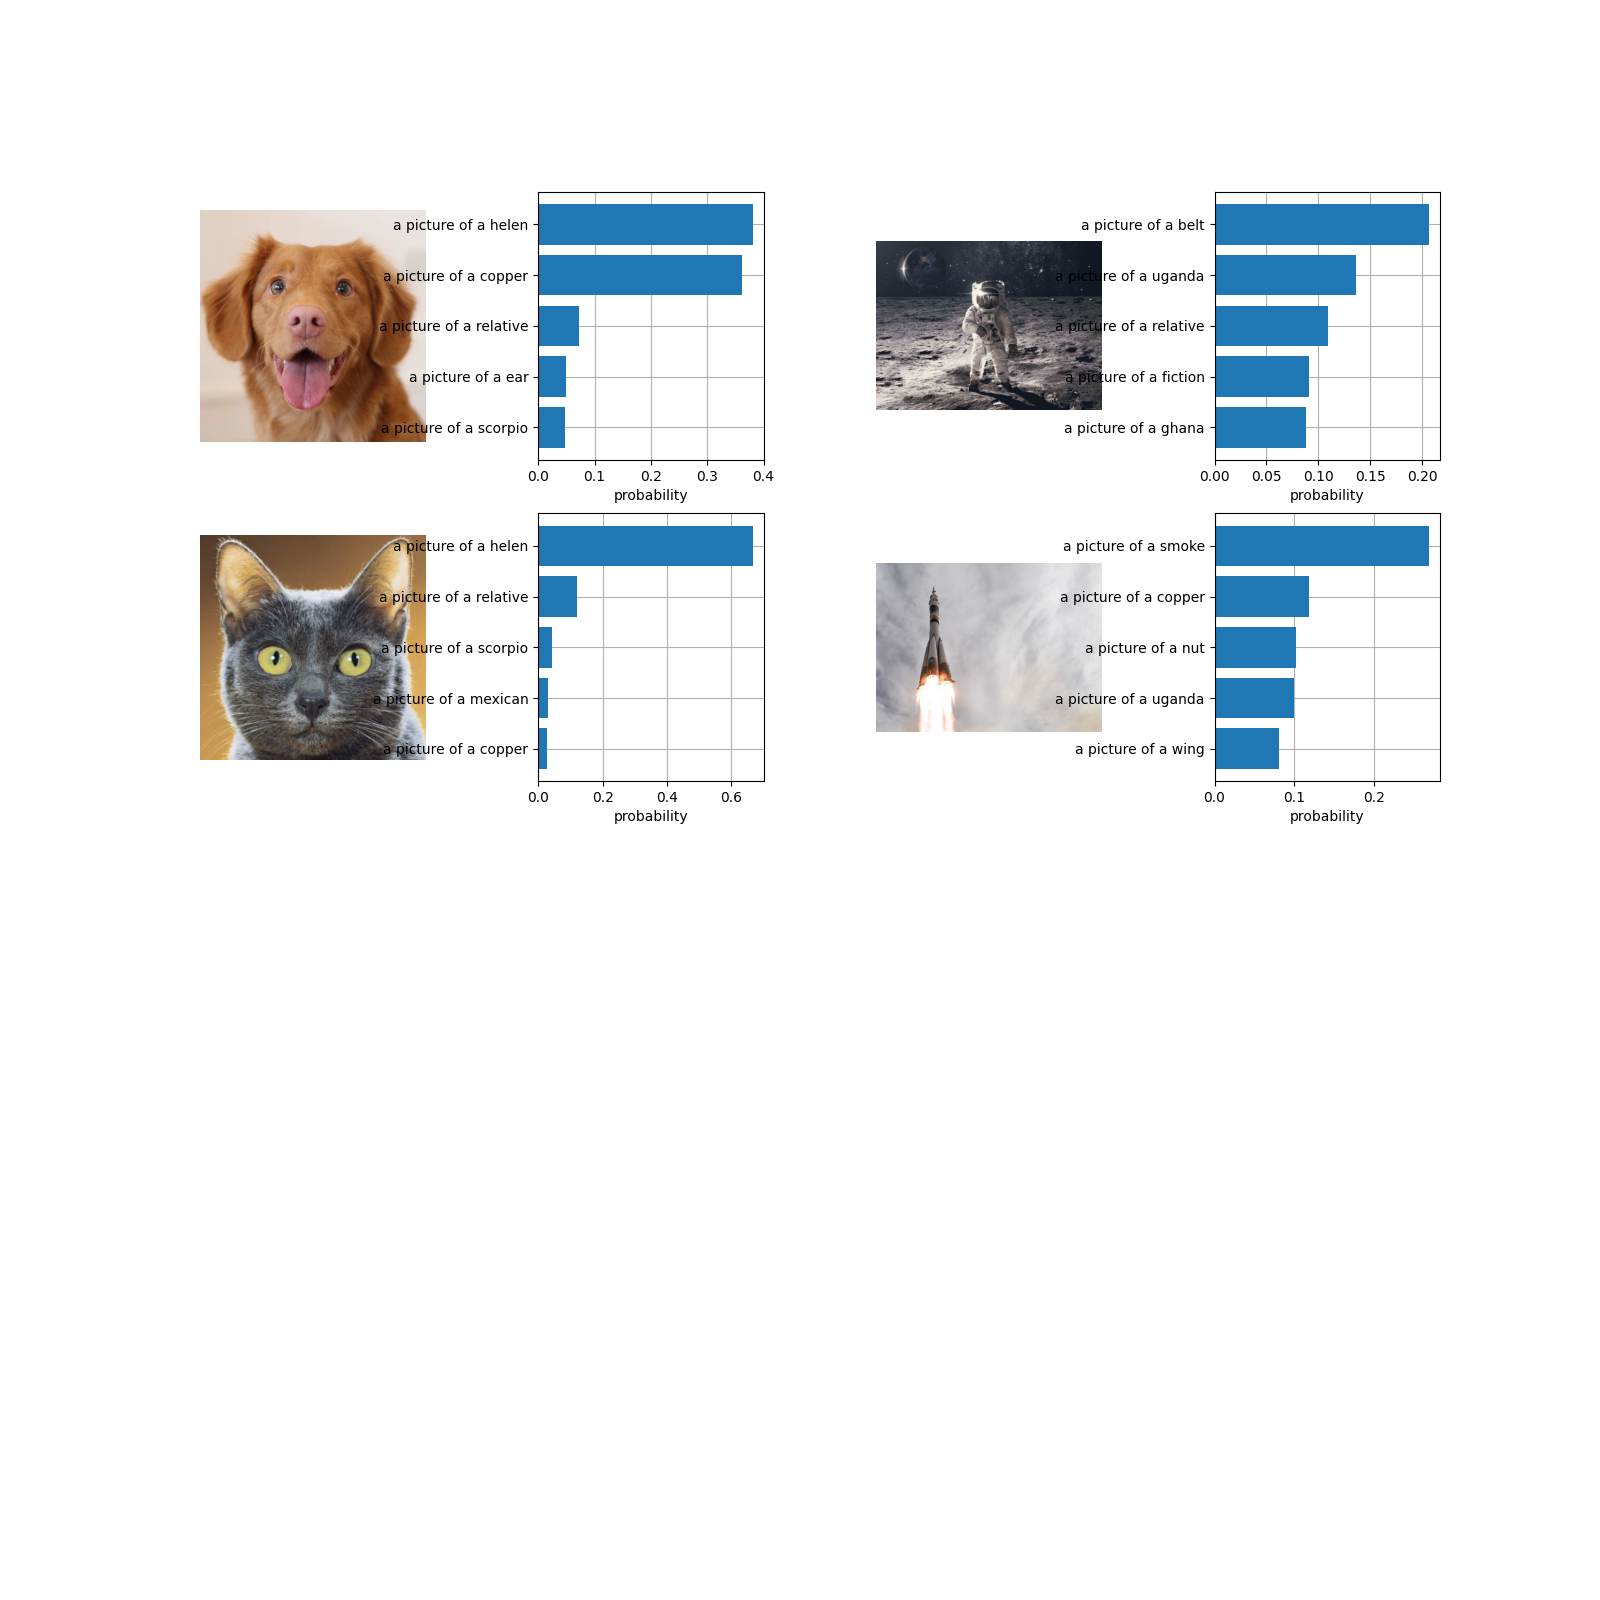
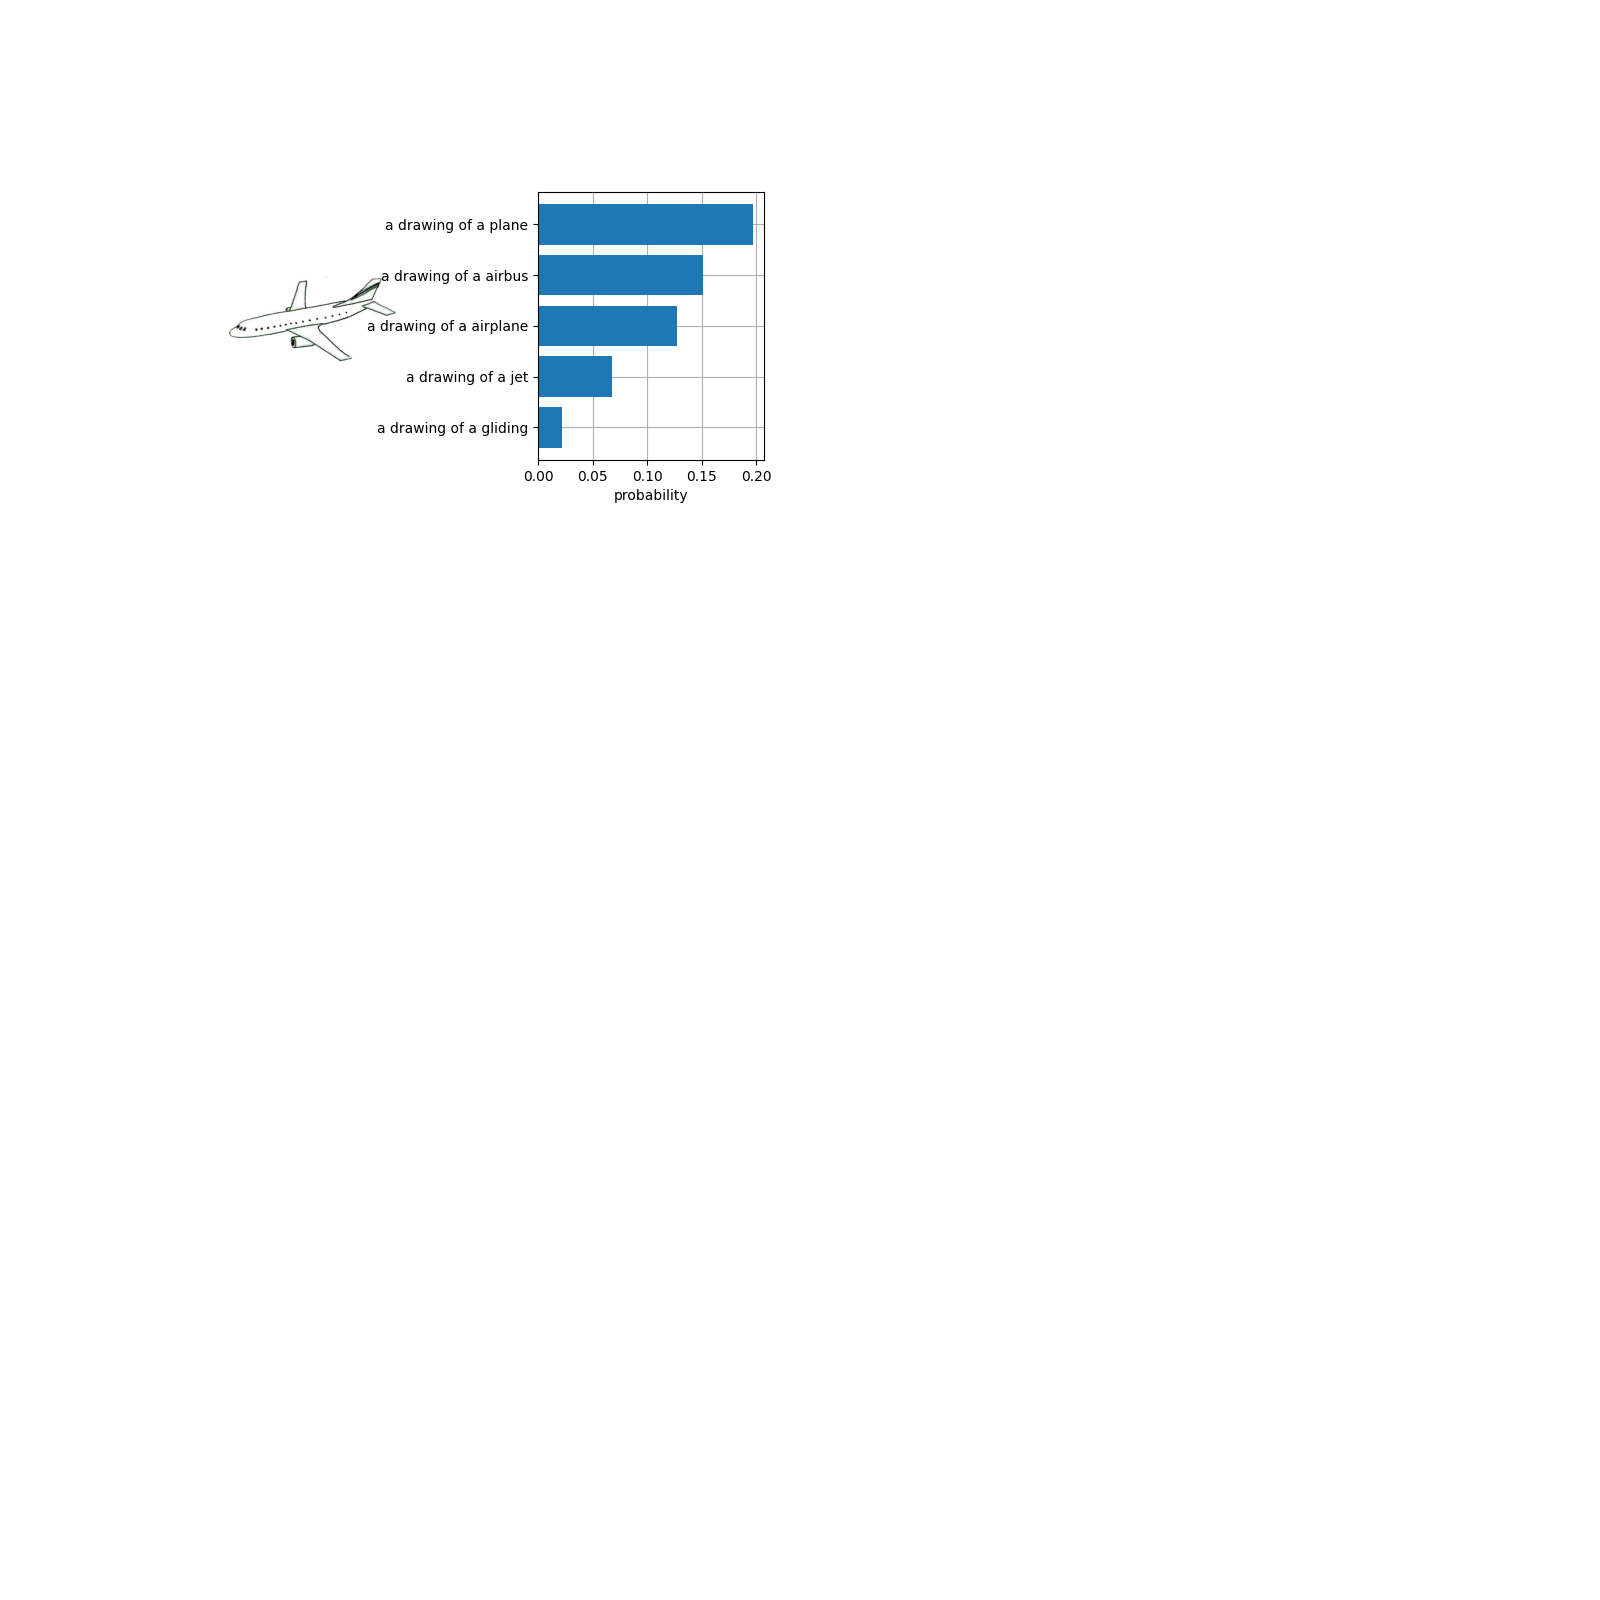
all working

diff --git a/server/main.py b/server/main.py
@@ -49,13 +49,14 @@ def classify_zero_shot_dataset():
     return {"Hello": "World"}
 
 @app.get("/classify_zero_shot_image")
-def classify_zero_shot_image():
-    clip_factory.prepare_single_image("local_images/single_images/cat_sketch.jpg") # or skimage.data_dir
+def read_item(target: str = "cat"):
+    image_path = f"local_images/single_images/{target}.jpg"
+    clip_factory.prepare_single_image(image_path) # or skimage.data_dir
     clip_factory.encode_image_tensors(np.stack(clip_factory.images_rgb)) 
     clip_factory.encode_text_classes(["This is " + desc for desc in clip_factory.classes])
     clip_factory.calc_cosine_similarities(True)
     plot_zero_shot_images(clip_factory)
-    return {"Hello": "World"}
+    return {"Hello": target}
 
 @app.get("/text_classify/directory/{prompt}")
 def classify_text_from_image(prompt: str):
@@ -72,7 +73,7 @@ def classify_text_from_image(prompt: str):
     top_image = clip_factory.unprocessed_images[top_index]
     plot_image(top_image)
     # plot_cosines(clip_factory) # how to fix? how to extract top image
-    return {"Hello": "World"}
+    return {"Hello": "{prompt}"}
 
 # @app.get("/items/{item_id}")
 # def read_item(item_id: int, q: Optional[str] = None):

diff --git a/server/factory.py b/server/factory.py
@@ -90,9 +90,9 @@ class CLIP:
     def calc_cosine_similarities(self, apply_scaleing=False):
         """Calculates the cosines for every image with every caption (square of cosines)"""
         if apply_scaleing:
-            self.similarity = (100.0 *  self.text_features @ self.image_features.T).softmax(dim=-1)
+            self.similarity = (100.0 *  self.image_features @ self.text_features.T).softmax(dim=-1)
         else:
-            self.similarity = self.text_features.cpu().numpy() @ self.image_features.cpu().numpy().T
+            self.similarity = self.image_features.cpu().numpy() @ self.text_features.cpu().numpy().T
 
 #   self.similarity = self.image_features @ self.text_features.T
 # # # # # # Text classifier
